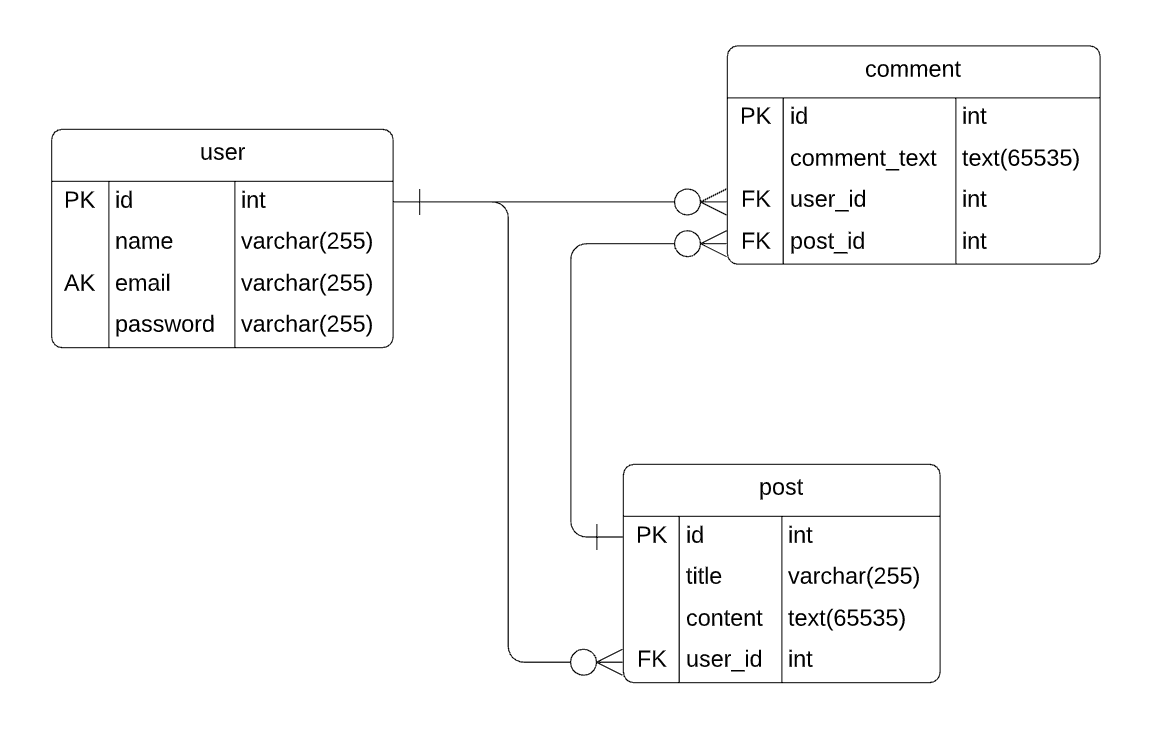
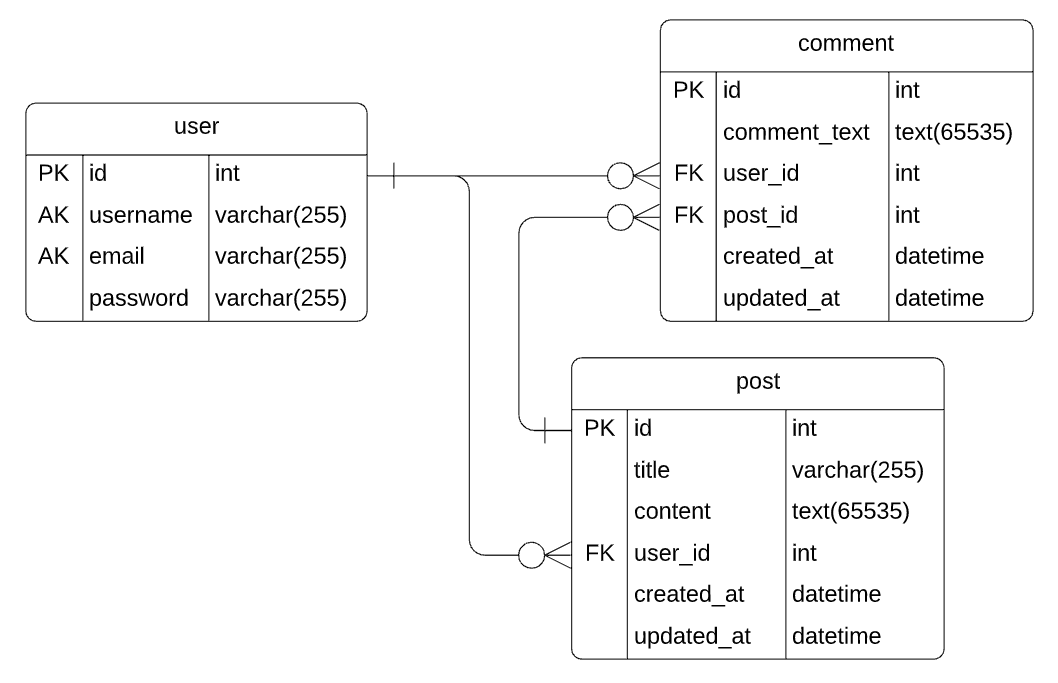
user routes are working, tested and fancy documented - plus had to switch name to username, and needed sequalize to add timestamps on posts and comments table at table creation

diff --git a/controllers/api/userRoutes.js b/controllers/api/userRoutes.js
@@ -37,9 +37,9 @@ router.get('/:id', async (req, res) => {
         },
       ],
     });
-    // console.log(req.params.id);
+    console.log(userData);
     if (!userData) {
-      res.status(404).json({ message: 'No user found with this id' });
+      res.status(404).json({ message: `No such user id ${req.params.id}` });
       return;
     }
     res.status(200).json(userData);
@@ -54,37 +54,43 @@ router.post('/', async (req, res) => {
 
     req.session.save(() => {
       req.session.user_id = userData.id;
+      req.session.username = userData.username;
       req.session.logged_in = true;
-
-      res.status(200).json(userData);
+      res
+        .status(201)
+        .json({ message: `Successfully created ${userData.username}` });
     });
   } catch (err) {
     res.status(400).json(err);
+    //
+    // future work - would like like to capture the error and provide some context
+    //
   }
 });
 
 router.post('/login', async (req, res) => {
   try {
-    const userData = await User.findOne({ where: { email: req.body.email } });
-
+    const userData = await User.findOne({
+      where: { username: req.body.username },
+    });
     if (!userData) {
+      // res.status(400).json({ message: `${userData.username} does not exist` });
       res
         .status(400)
-        .json({ message: 'Incorrect email or password, please try again' });
+        .json({ message: `${req.body.username} is not a valid username` });
       return;
     }
 
     const validPassword = await userData.checkPassword(req.body.password);
 
     if (!validPassword) {
-      res
-        .status(400)
-        .json({ message: 'Incorrect email or password, please try again' });
+      res.status(400).json({ message: 'Incorrect password, please try again' });
       return;
     }
 
     req.session.save(() => {
       req.session.user_id = userData.id;
+      req.session.username = userData.username;
       req.session.logged_in = true;
 
       res.json({ user: userData, message: 'You are now logged in!' });
@@ -94,13 +100,20 @@ router.post('/login', async (req, res) => {
   }
 });
 
-router.post('/logout', (req, res) => {
-  if (req.session.logged_in) {
-    req.session.destroy(() => {
-      res.status(204).end();
-    });
-  } else {
-    res.status(404).end();
+router.post('/logout', async (req, res) => {
+  try {
+    if (req.session.logged_in) {
+      const userData = await req.session.destroy(() => {
+        res.status(204).end();
+      });
+    } else {
+      res.status(404).end();
+      // somehow you're attempted to logout a session that doesn't exist.
+      // This might be because the session timeed out and then the user attempted to log out.
+    }
+  } catch {
+    res.status(400).end();
+    // you'd get here if there was a session found but the destroy failed / super rare
   }
 });
 

diff --git a/models/User.js b/models/User.js
@@ -16,9 +16,10 @@ User.init(
       primaryKey: true,
       autoIncrement: true,
     },
-    name: {
+    username: {
       type: DataTypes.STRING,
       allowNull: false,
+      unique: true,
     },
     email: {
       type: DataTypes.STRING,
@@ -43,7 +44,10 @@ User.init(
         return newUserData;
       },
       beforeUpdate: async (updatedUserData) => {
-        updatedUserData.password = await bcrypt.hash(updatedUserData.password, 10);
+        updatedUserData.password = await bcrypt.hash(
+          updatedUserData.password,
+          10
+        );
         return updatedUserData;
       },
     },

diff --git a/README.md b/README.md
@@ -1,2 +1,11 @@
 # 14-MVC-Tech-Blog
+
 Homework #14: Model-View-Controller (MVC): Tech Blog
+
+| Method | Route           | Description                                                                                                                                                                                                                                 |
+| :----- | :-------------- | :------------------------------------------------------------------------------------------------------------------------------------------------------------------------------------------------------------------------------------------ |
+| get    | /api/user       | Display all users                                                                                                                                                                                                                           |
+| get    | /api/user/:id   | Display all posts and comments by a particular user id                                                                                                                                                                                      |
+| post   | /api/user       | Creates a user with username and password and sets user to logged in - expects JSON object formatted: <br>`{`<br>`"username": "`<em>`USERNAME`</em>`",`<br>`"email": "`<em>`EMAIL`</em>`",`<br>`"password": "`<em>`PASSWORD`</em>`"`<br>`}` |
+| post   | /api/user/login | Logs user in - expects JSON object formatted: <br>`{`<br>`"username": "`<em>`USERNAME`</em>`",`<br>`"password": "`<em>`PASSWORD`</em>`"`<br>`}`                                                                                             |
+| post   | /api/user/login | Logs user out - expects JSON object formatted: <br>`{`<br>`"username": "`<em>`USERNAME`</em>`"`<br>`}`                                                                                                                                      |
